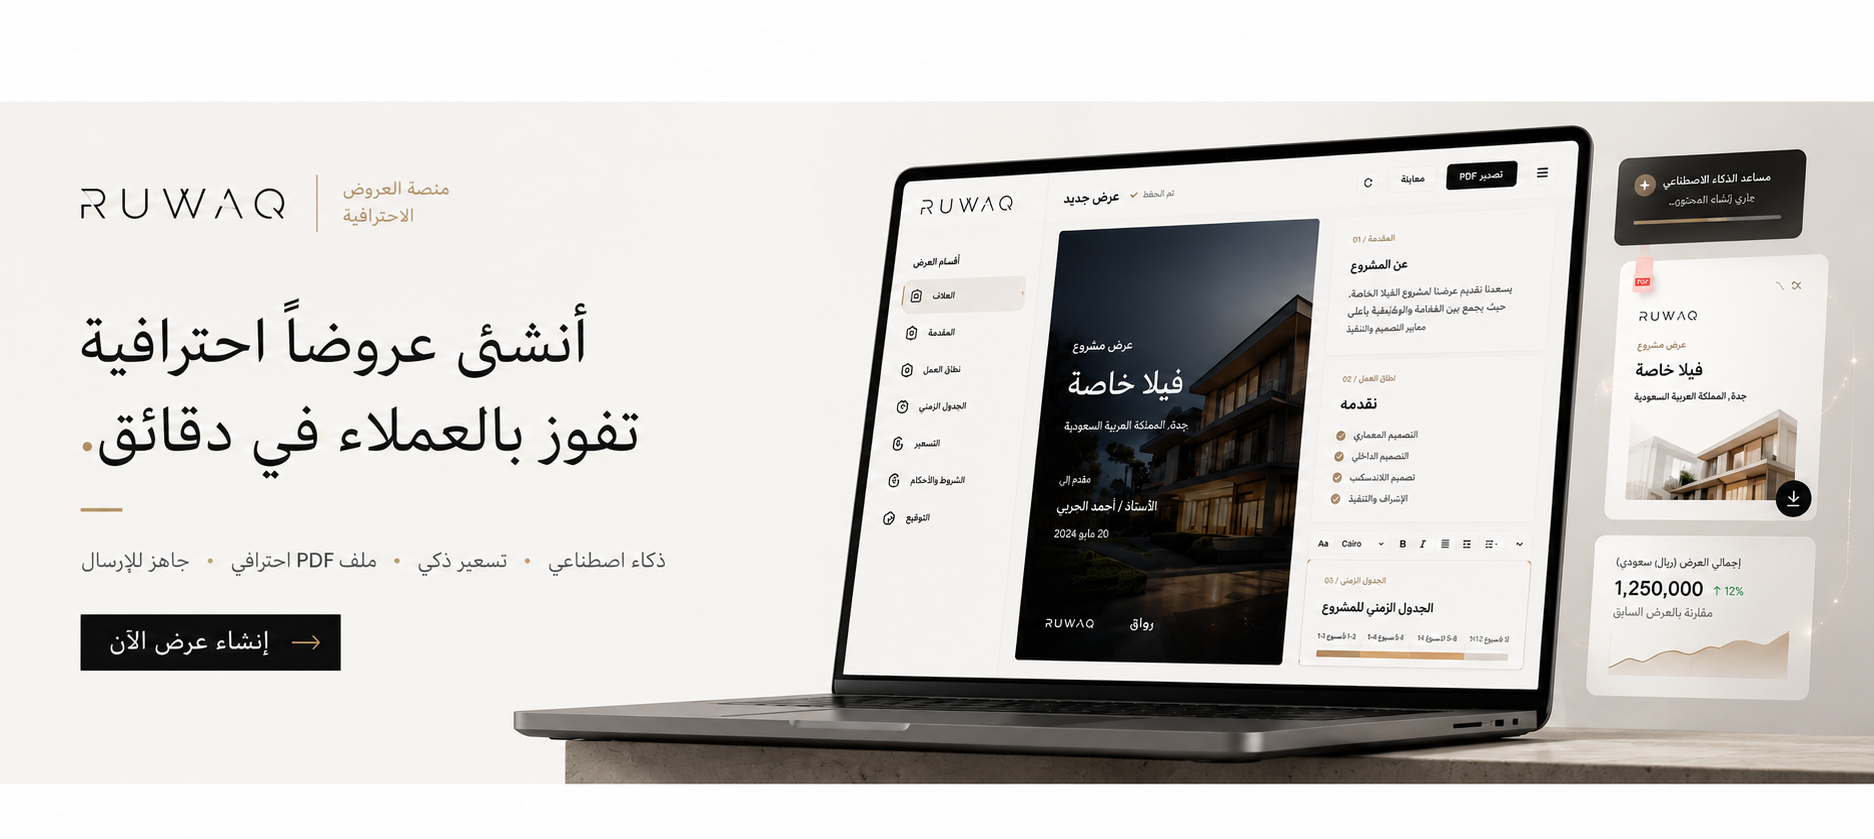
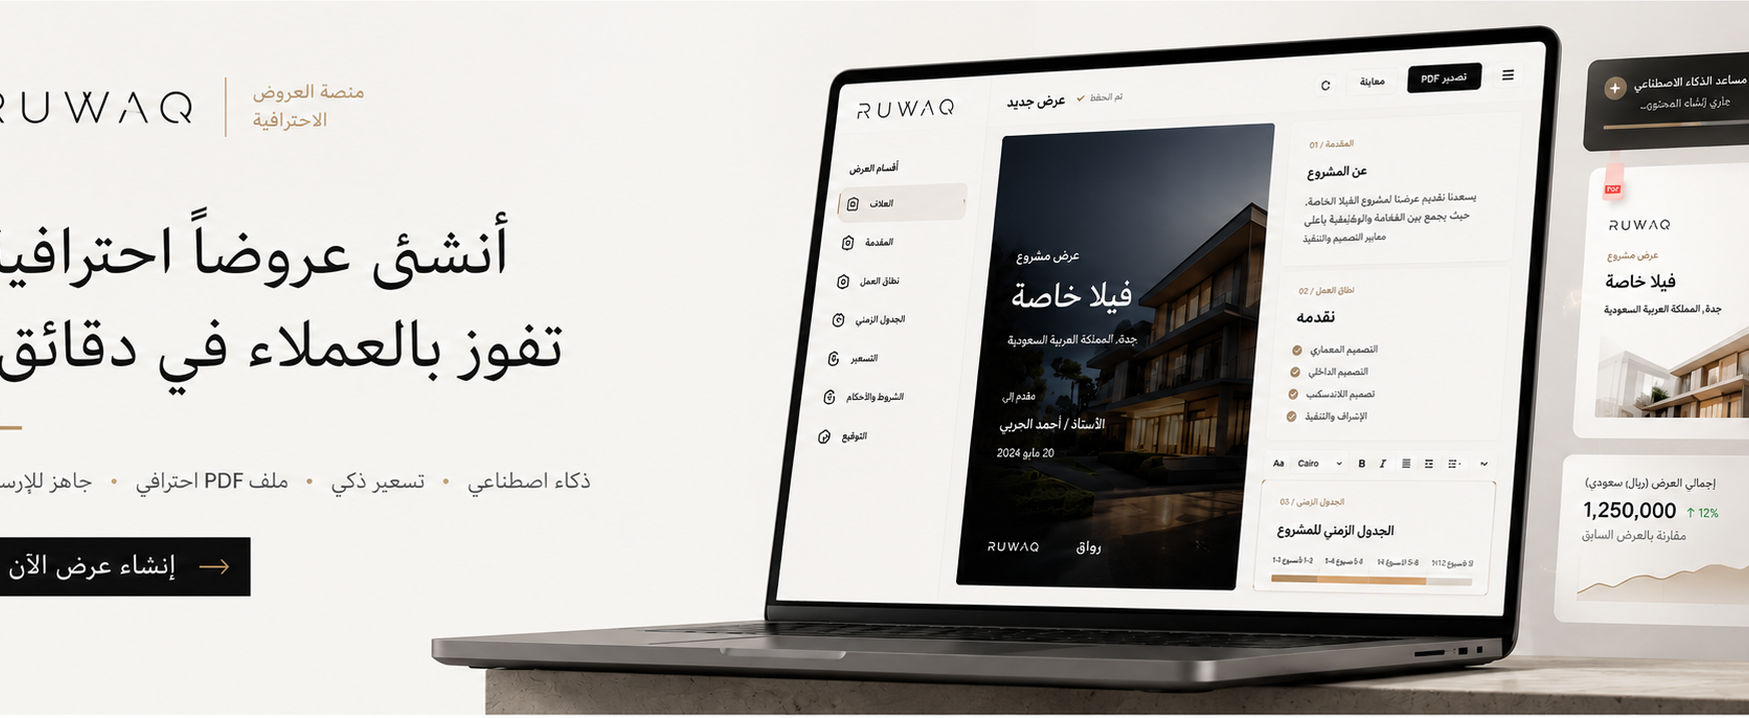
Place Beesmotion and Ruwaq proposals ads side by side.
Crop ad3/ad4 to 1749×718 and mirror partner row layout for the second ad band on the homepage.

diff --git a/src/modules/marketplace/components/contractor-tools-promo-row.tsx b/src/modules/marketplace/components/contractor-tools-promo-row.tsx
@@ -1,0 +1,80 @@
+import Image from "next/image";
+import Link from "next/link";
+import { MARKETING_IMAGES } from "@/content/marketing-images";
+import { beesmotionReferralUrl } from "@/shared/constants/brand";
+import type { Locale } from "@/shared/i18n/locale";
+
+type Props = {
+  locale: Locale;
+};
+
+const AD_WIDTH = 1749;
+const AD_HEIGHT = 718;
+
+const BEESMOTION_AD = {
+  ar: {
+    alt: "بيز موشن، التسويق الرقمي والإنتاج الإعلامي",
+  },
+  en: {
+    alt: "Beesmotion, Digital Marketing & Media Production",
+  },
+} as const;
+
+const PROPOSALS_AD = {
+  ar: {
+    src: MARKETING_IMAGES.proposalsAdAr,
+    alt: "رواق، أداة العروض الاحترافية",
+  },
+  en: {
+    src: MARKETING_IMAGES.proposalsAdEn,
+    alt: "Ruwaq, Professional proposal tool",
+  },
+} as const;
+
+/** Beesmotion + Ruwaq proposals, side by side on desktop, stacked on mobile. */
+export function ContractorToolsPromoRow({ locale }: Props) {
+  const beesmotion = BEESMOTION_AD[locale];
+  const proposals = PROPOSALS_AD[locale];
+  const beesmotionHref = beesmotionReferralUrl("homepage_featured_ad");
+
+  return (
+    <section
+      className="ruwaq-ad-partner-row ruwaq-ad-partner-row--white scroll-mt-28"
+      aria-label={locale === "ar" ? "أدوات المنشآت" : "Business tools"}
+    >
+      <div className="ruwaq-ad-partner-row__frame">
+        <a
+          id="digital-marketing"
+          href={beesmotionHref}
+          target="_blank"
+          rel="noopener noreferrer"
+          className="ruwaq-ad-partner-row__item"
+        >
+          <Image
+            src={MARKETING_IMAGES.beesmotionAd}
+            alt={beesmotion.alt}
+            width={AD_WIDTH}
+            height={AD_HEIGHT}
+            className="ruwaq-ad-partner-row__image"
+            sizes="(max-width: 640px) 100vw, 50vw"
+          />
+        </a>
+
+        <Link
+          id="contractor-promo"
+          href="/proposals/new"
+          className="ruwaq-ad-partner-row__item"
+        >
+          <Image
+            src={proposals.src}
+            alt={proposals.alt}
+            width={AD_WIDTH}
+            height={AD_HEIGHT}
+            className="ruwaq-ad-partner-row__image"
+            sizes="(max-width: 640px) 100vw, 50vw"
+          />
+        </Link>
+      </div>
+    </section>
+  );
+}

diff --git a/src/app/(site)/page.tsx b/src/app/(site)/page.tsx
@@ -6,8 +6,7 @@ import { ProjectToursSection } from "@/modules/marketplace/components/project-to
 import { GuidesSection } from "@/modules/marketplace/components/guides-section";
 import { EditorialCategoryGrid } from "@/modules/marketplace/components/editorial-category-grid";
 import { HowItWorksSection } from "@/modules/marketplace/components/how-it-works-section";
-import { ContractorPromoBanner } from "@/modules/marketplace/components/contractor-promo-banner";
-import { BeesmotionPromoBanner } from "@/modules/marketplace/components/beesmotion-promo-banner";
+import { ContractorToolsPromoRow } from "@/modules/marketplace/components/contractor-tools-promo-row";
 import { PartnerPromoRow } from "@/modules/marketplace/components/partner-promo-row";
 import { buildOrganizationJsonLd, buildWebSiteJsonLd } from "@/modules/marketplace/seo/site-jsonld";
 
@@ -42,8 +41,7 @@ export default async function HomePage() {
       <GuidesSection />
       <HowItWorksSection copy={t.marketplace.howItWorks} locale={locale} />
       <PartnerPromoRow locale={locale} />
-      <BeesmotionPromoBanner locale={locale} />
-      <ContractorPromoBanner locale={locale} />
+      <ContractorToolsPromoRow locale={locale} />
     </>
   );
 }

diff --git a/src/modules/marketplace/components/contractor-promo-banner.tsx b/src/modules/marketplace/components/contractor-promo-banner.tsx
@@ -10,14 +10,14 @@ type Props = {
 const PROPOSALS_AD = {
   ar: {
     src: MARKETING_IMAGES.proposalsAdAr,
-    width: 1874,
-    height: 839,
+    width: 1749,
+    height: 718,
     alt: "رواق، أداة العروض الاحترافية",
   },
   en: {
     src: MARKETING_IMAGES.proposalsAdEn,
-    width: 1871,
-    height: 840,
+    width: 1749,
+    height: 718,
     alt: "Ruwaq, Professional proposal tool",
   },
 } as const;

diff --git a/src/modules/marketplace/components/beesmotion-promo-banner.tsx b/src/modules/marketplace/components/beesmotion-promo-banner.tsx
@@ -37,8 +37,8 @@ export function BeesmotionPromoBanner({ locale }: Props) {
           <Image
             src={MARKETING_IMAGES.beesmotionAd}
             alt={ad.alt}
-            width={1774}
-            height={887}
+            width={1749}
+            height={718}
             className="ruwaq-ad-featured-image-banner"
             sizes="(max-width: 768px) 100vw, 1140px"
           />

diff --git a/src/app/globals.css b/src/app/globals.css
@@ -2079,6 +2079,10 @@
     @apply border-t border-neutral-200 bg-[var(--ruwaq-ad-stone)] py-8 sm:py-10 lg:py-12;
   }
 
+  .ruwaq-ad-partner-row--white {
+    @apply bg-white;
+  }
+
   .ruwaq-ad-partner-row__frame {
     @apply mx-auto grid w-full max-w-[80rem] grid-cols-1 gap-3 px-4 sm:grid-cols-2 sm:gap-4 sm:px-6 lg:gap-5 lg:px-8;
   }
